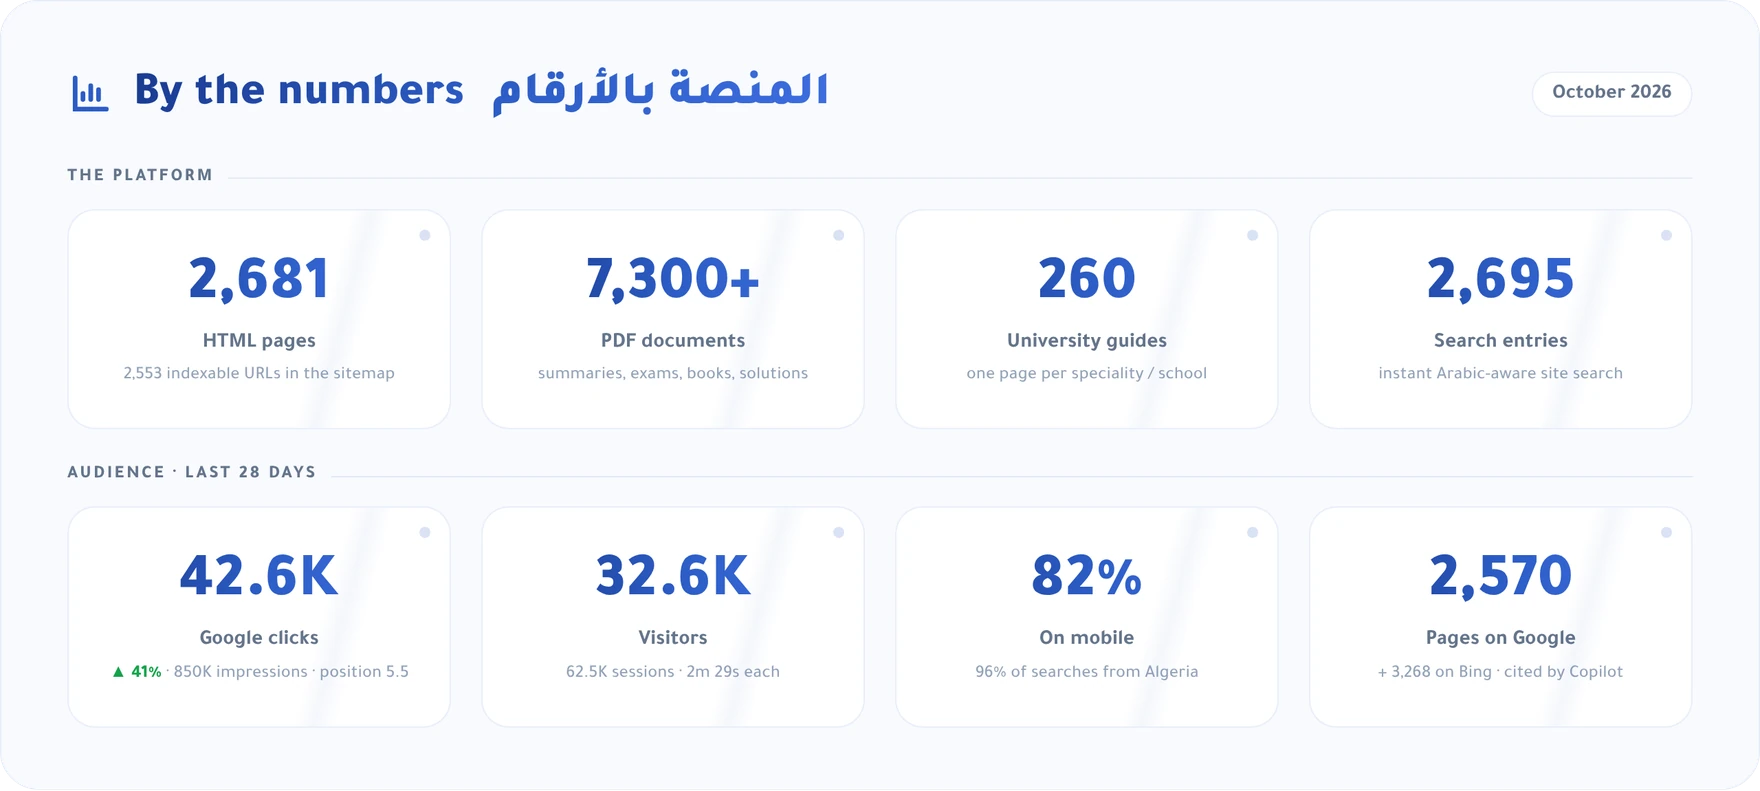
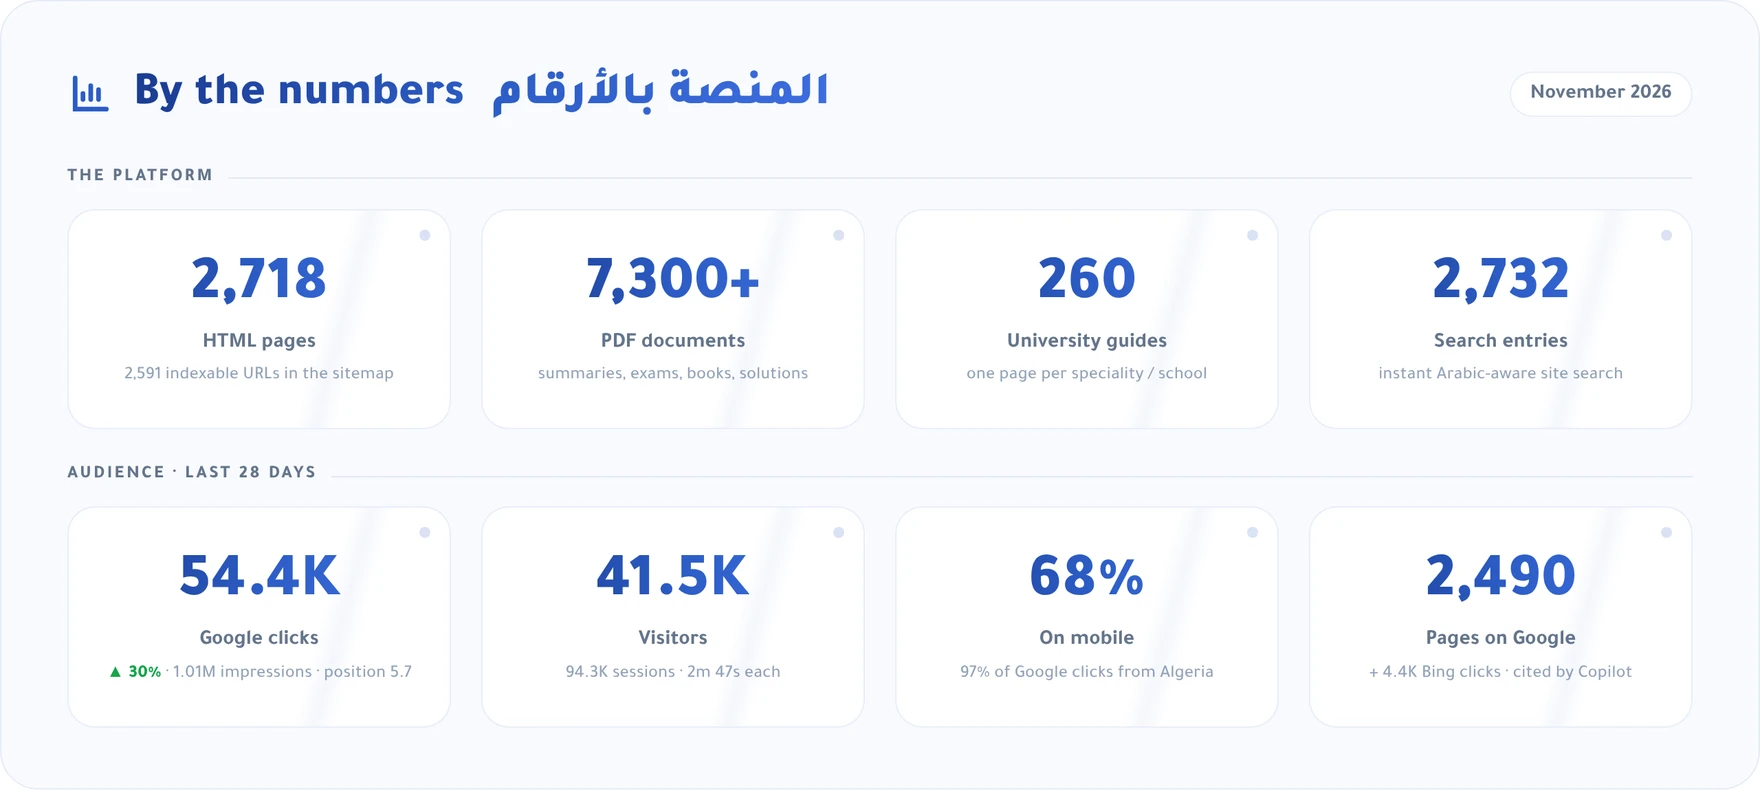
content: refresh README numbers card and Telegram audience (+18K)

diff --git a/.github/assets/src/stats.html b/.github/assets/src/stats.html
@@ -51,23 +51,23 @@
       <svg viewBox="0 0 24 24" fill="none" stroke="currentColor" stroke-width="2.4" stroke-linecap="round"><path d="M4 4v16h16"/><path d="M8 15v-3M12 15V8M16 15v-5"/></svg>
       <h2>By the numbers <span class="ar">المنصة بالأرقام</span></h2>
     </div>
-    <span class="date">October 2026</span>
+    <span class="date">November 2026</span>
   </div>
 
   <div class="label">The platform</div>
   <div class="grid">
-    <div class="stat"><div class="num">2,681</div><span class="lbl">HTML pages</span><span class="sub">2,553 indexable URLs in the sitemap</span></div>
+    <div class="stat"><div class="num">2,718</div><span class="lbl">HTML pages</span><span class="sub">2,591 indexable URLs in the sitemap</span></div>
     <div class="stat"><div class="num">7,300+</div><span class="lbl">PDF documents</span><span class="sub">summaries, exams, books, solutions</span></div>
     <div class="stat"><div class="num">260</div><span class="lbl">University guides</span><span class="sub">one page per speciality / school</span></div>
-    <div class="stat"><div class="num">2,695</div><span class="lbl">Search entries</span><span class="sub">instant Arabic-aware site search</span></div>
+    <div class="stat"><div class="num">2,732</div><span class="lbl">Search entries</span><span class="sub">instant Arabic-aware site search</span></div>
   </div>
 
   <div class="label">Audience · last 28 days</div>
   <div class="grid">
-    <div class="stat"><div class="num">42.6K</div><span class="lbl">Google clicks</span><span class="sub"><span class="up">▲ 41%</span> · 850K impressions · position 5.5</span></div>
-    <div class="stat"><div class="num">32.6K</div><span class="lbl">Visitors</span><span class="sub">62.5K sessions · 2m 29s each</span></div>
-    <div class="stat"><div class="num">82%</div><span class="lbl">On mobile</span><span class="sub">96% of searches from Algeria</span></div>
-    <div class="stat"><div class="num">2,570</div><span class="lbl">Pages on Google</span><span class="sub">+ 3,268 on Bing · cited by Copilot</span></div>
+    <div class="stat"><div class="num">54.4K</div><span class="lbl">Google clicks</span><span class="sub"><span class="up">▲ 30%</span> · 1.01M impressions · position 5.7</span></div>
+    <div class="stat"><div class="num">41.5K</div><span class="lbl">Visitors</span><span class="sub">94.3K sessions · 2m 47s each</span></div>
+    <div class="stat"><div class="num">68%</div><span class="lbl">On mobile</span><span class="sub">97% of Google clicks from Algeria</span></div>
+    <div class="stat"><div class="num">2,490</div><span class="lbl">Pages on Google</span><span class="sub">+ 4.4K Bing clicks · cited by Copilot</span></div>
   </div>
 </div>
 </body>

diff --git a/advertise.html b/advertise.html
@@ -518,7 +518,7 @@
 <div class="adp-tg-icon">
 <i class="fab fa-telegram-plane"></i>
 </div>
-<div class="adp-audience-num">+17 ألف</div>
+<div class="adp-audience-num">+18 ألف</div>
 <div class="adp-audience-num-lbl">متابع على قناة التلغرام</div>
 <div class="adp-audience-divider"></div>
 <p class="adp-tg-desc">قناة <strong>BAC STORY WITH ISLEM</strong> — منصة التواصل المباشرة مع طلاب الباك. الظهور الكامل يتضمن ذكرًا على القناة.</p>
@@ -709,7 +709,7 @@
 <ul class="adp-pkg-list">
 <li><i class="fas fa-check"></i> جميع مزايا الباقتين</li>
 <li><i class="fas fa-check"></i> أولوية الظهور والترتيب</li>
-<li><i class="fas fa-check"></i> ذكر على قناة التلغرام (+17 ألف متابع)</li>
+<li><i class="fas fa-check"></i> ذكر على قناة التلغرام (+18 ألف متابع)</li>
 <li><i class="fas fa-check"></i> المدة: أسبوعين كاملين</li>
 </ul>
 <div class="adp-pkg-ctas">

diff --git a/README.md b/README.md
@@ -25,7 +25,7 @@ for all six streams of the Algerian Baccalaureate, in Arabic, free, on any phone
 
 <br>
 
-<img src=".github/assets/stats.webp" alt="By the numbers, October 2026: 2,681 HTML pages (2,553 indexable URLs in the sitemap), 7,300+ PDF documents, 260 university guides, 2,695 search entries. Last 28 days: 42.6K Google clicks (up 41%), 850K impressions, 32.6K visitors, 82% on mobile, 96% of searches from Algeria, 2,570 pages on Google and 3,268 on Bing." width="100%">
+<img src=".github/assets/stats.webp" alt="By the numbers, November 2026: 2,718 HTML pages (2,591 indexable URLs in the sitemap), 7,300+ PDF documents, 260 university guides, 2,732 search entries. Last 28 days: 54.4K Google clicks (up 30%), 1.01M impressions, 41.5K visitors, 68% on mobile, 97% of Google clicks from Algeria, 2,490 pages on Google and 4.4K Bing clicks." width="100%">
 
 <br>
 
